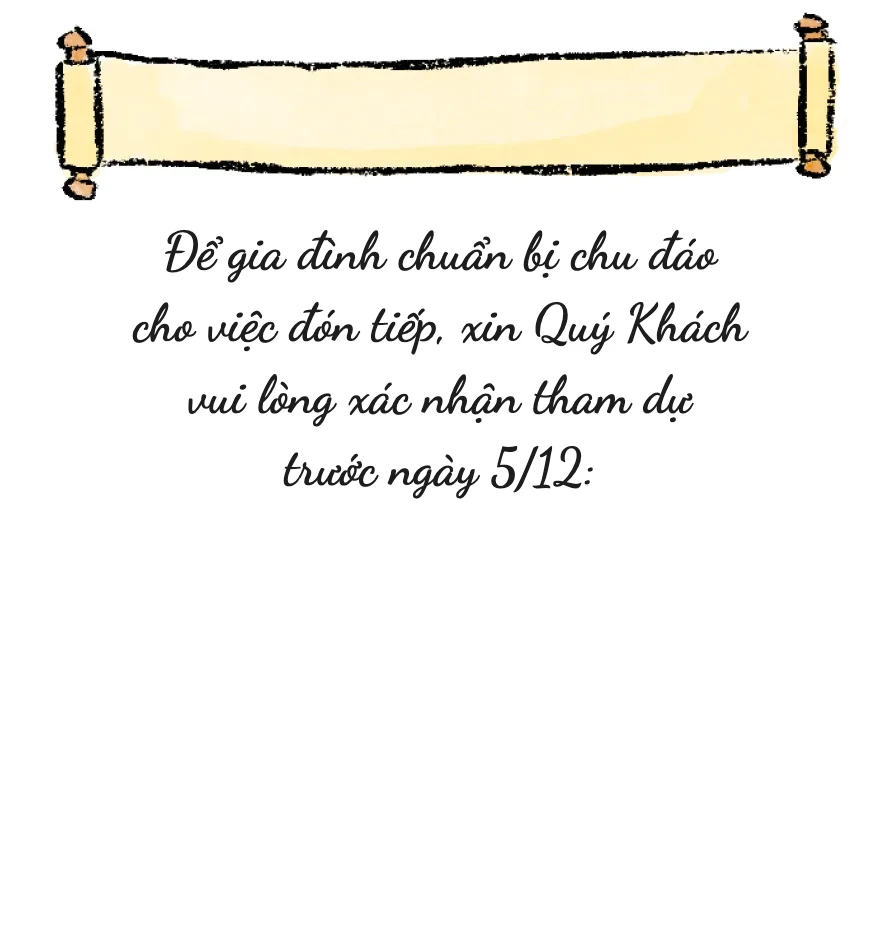
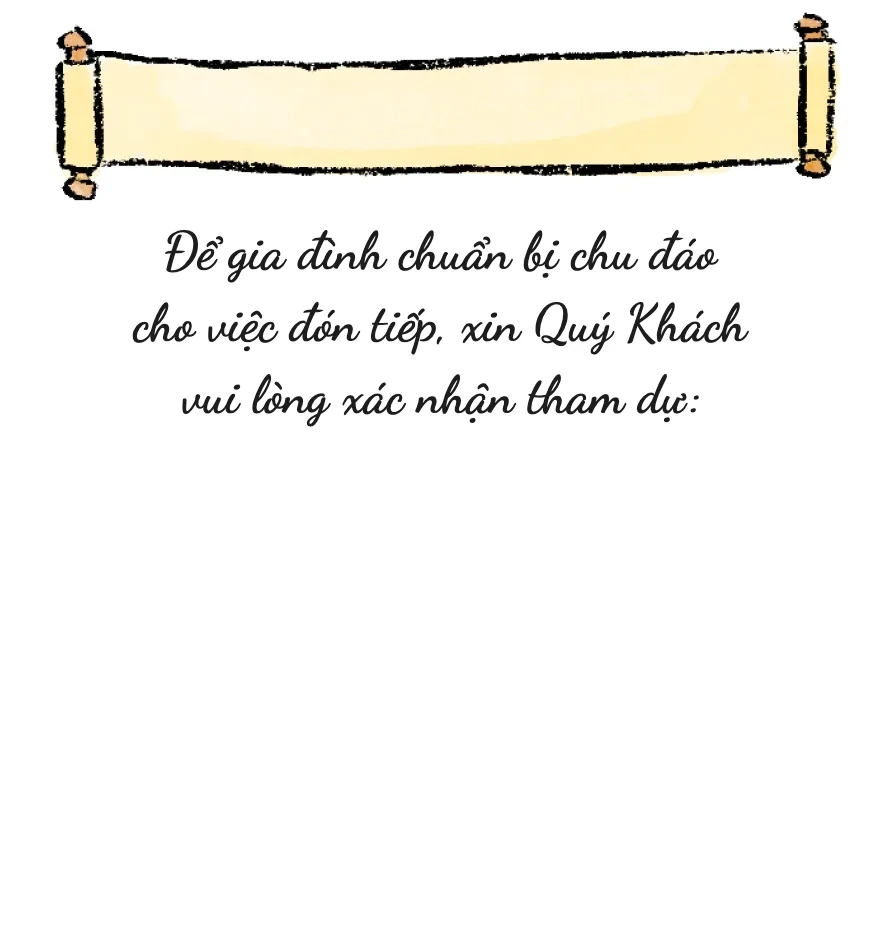
RSVP: remove the 5/12 deadline from the prompt
Drop "trước ngày 5/12" from the RSVP art, the screen-reader copy and the
form title, and bump the image cache-buster.

Claude-Session: https://claude.ai/code/session_01Ff7T74aEhhkavyVSxqs55A

Changed region(s): [[0.2148, 0.3977, 0.7977, 0.52]]

diff --git a/index.html b/index.html
@@ -26,7 +26,7 @@ chung vui</h2><p class="t small-i c pre" style="left:calc(88 * var(--u));top:cal
 kính mời quý khách
 đến chung vui trong lễ thành hôn</p><p class="sr-only">Minh Tran &amp; Mindy Quach</p><p class="t small-bi c" style="left:calc(134 * var(--u));top:calc(2319 * var(--u));width:calc(177 * var(--u));white-space:pre;">Thứ Bảy  |  19 tháng 12, 2026</p><p class="t venue c" style="left:calc(50 * var(--u));top:calc(2367 * var(--u));width:calc(340 * var(--u));white-space:pre;">Thiskyhall Sala Convention Center</p><p class="t small-i c pre" style="left:calc(72 * var(--u));top:calc(2398 * var(--u));width:calc(296 * var(--u));">Cổng đường D6 10 Mai Chí Thọ
 KĐT Sala, An Khánh
-TP. Hồ Chí Minh</p></div></section><section id="rsvp" aria-labelledby="rsvp-h"><div id="rsvp-art" class="art " style="height:calc(392 * var(--u));overflow:hidden"><div class="shift" style="top:calc(-2776 * var(--u))"><img class="bg" src="assets/rsvp.webp?v=6" alt="" aria-hidden="true" width="440" height="474" loading="lazy" decoding="async" style="top:calc(2776 * var(--u));height:calc(474 * var(--u))"><h2 id="rsvp-h" class="t h-script" style="left:calc(179 * var(--u));top:calc(2803 * var(--u));width:calc(89 * var(--u));white-space:pre;">RSVP</h2><p class="sr-only">Để gia đình chuẩn bị chu đáo cho việc đón tiếp, xin Quý Khách vui lòng xác nhận tham dự trước ngày 5/12:</p><img class="sprite sp-wand-left anim-wand-left " src="assets/wand-left.webp" alt="" aria-hidden="true" width="224" height="139" loading="lazy" decoding="async" style="left:calc(-48 * var(--u));top:calc(3016 * var(--u));width:calc(224 * var(--u));height:calc(139 * var(--u));"><img class="sprite sp-wand-right anim-wand-right " src="assets/wand-right.webp" alt="" aria-hidden="true" width="224" height="139" loading="lazy" decoding="async" style="left:calc(262 * var(--u));top:calc(3016 * var(--u));width:calc(224 * var(--u));height:calc(139 * var(--u));"></div></div><div id="rsvp-form-root"></div></section><section id="agenda" class="art " style="height:calc(935 * var(--u));overflow:hidden"><div class="shift" style="top:calc(-3840 * var(--u))"><img class="bg" src="assets/agenda.webp" alt="" aria-hidden="true" width="440" height="1115" loading="lazy" decoding="async" style="top:calc(3660 * var(--u));height:calc(1115 * var(--u))"><img class="sprite" src="assets/star.webp" alt="" aria-hidden="true" width="32" height="31" loading="lazy" decoding="async" style="left:calc(200.1 * var(--u));top:calc(4290 * var(--u));width:calc(32.4 * var(--u));height:calc(31.3 * var(--u));"><img class="sprite" src="assets/star.webp" alt="" aria-hidden="true" width="32" height="31" loading="lazy" decoding="async" style="left:calc(200.1 * var(--u));top:calc(4515 * var(--u));width:calc(32.4 * var(--u));height:calc(31.3 * var(--u));"><h2 class="t h-script c pre" style="left:calc(42 * var(--u));top:calc(3916 * var(--u));width:calc(356 * var(--u));">Chương Trình</h2><h3 class="t loc c pre" style="left:calc(117 * var(--u));top:calc(4037 * var(--u));width:calc(204 * var(--u));white-space:pre;"><span class="loc-b">Tiệc cưới
+TP. Hồ Chí Minh</p></div></section><section id="rsvp" aria-labelledby="rsvp-h"><div id="rsvp-art" class="art " style="height:calc(392 * var(--u));overflow:hidden"><div class="shift" style="top:calc(-2776 * var(--u))"><img class="bg" src="assets/rsvp.webp?v=7" alt="" aria-hidden="true" width="440" height="474" loading="lazy" decoding="async" style="top:calc(2776 * var(--u));height:calc(474 * var(--u))"><h2 id="rsvp-h" class="t h-script" style="left:calc(179 * var(--u));top:calc(2803 * var(--u));width:calc(89 * var(--u));white-space:pre;">RSVP</h2><p class="sr-only">Để gia đình chuẩn bị chu đáo cho việc đón tiếp, xin Quý Khách vui lòng xác nhận tham dự:</p><img class="sprite sp-wand-left anim-wand-left " src="assets/wand-left.webp" alt="" aria-hidden="true" width="224" height="139" loading="lazy" decoding="async" style="left:calc(-48 * var(--u));top:calc(3016 * var(--u));width:calc(224 * var(--u));height:calc(139 * var(--u));"><img class="sprite sp-wand-right anim-wand-right " src="assets/wand-right.webp" alt="" aria-hidden="true" width="224" height="139" loading="lazy" decoding="async" style="left:calc(262 * var(--u));top:calc(3016 * var(--u));width:calc(224 * var(--u));height:calc(139 * var(--u));"></div></div><div id="rsvp-form-root"></div></section><section id="agenda" class="art " style="height:calc(935 * var(--u));overflow:hidden"><div class="shift" style="top:calc(-3840 * var(--u))"><img class="bg" src="assets/agenda.webp" alt="" aria-hidden="true" width="440" height="1115" loading="lazy" decoding="async" style="top:calc(3660 * var(--u));height:calc(1115 * var(--u))"><img class="sprite" src="assets/star.webp" alt="" aria-hidden="true" width="32" height="31" loading="lazy" decoding="async" style="left:calc(200.1 * var(--u));top:calc(4290 * var(--u));width:calc(32.4 * var(--u));height:calc(31.3 * var(--u));"><img class="sprite" src="assets/star.webp" alt="" aria-hidden="true" width="32" height="31" loading="lazy" decoding="async" style="left:calc(200.1 * var(--u));top:calc(4515 * var(--u));width:calc(32.4 * var(--u));height:calc(31.3 * var(--u));"><h2 class="t h-script c pre" style="left:calc(42 * var(--u));top:calc(3916 * var(--u));width:calc(356 * var(--u));">Chương Trình</h2><h3 class="t loc c pre" style="left:calc(117 * var(--u));top:calc(4037 * var(--u));width:calc(204 * var(--u));white-space:pre;"><span class="loc-b">Tiệc cưới
 </span><span class="loc-i">Sảnh Skylar 1, 2 (tầng 5)</span></h3><p class="t item c pre" style="left:calc(145 * var(--u));top:calc(4165 * var(--u));width:calc(124 * var(--u));white-space:pre;"><span class="time">17:30
 </span><span class="title">Đón khách</span></p><p class="t item c pre" style="left:calc(103 * var(--u));top:calc(4375 * var(--u));width:calc(229 * var(--u));white-space:pre;"><span class="time">18:30
 </span><span class="title">Khai tiệc</span></p></div></section><section id="location" class="art " style="height:calc(1420 * var(--u))"><div class="shift" style="top:calc(-5837 * var(--u))"><img class="bg" src="assets/location.webp" alt="" aria-hidden="true" width="440" height="670" loading="lazy" decoding="async" style="top:calc(5837 * var(--u));height:calc(670 * var(--u))"><h2 class="t h-script c" style="left:calc(42 * var(--u));top:calc(6283 * var(--u));width:calc(356 * var(--u));white-space:pre;">Địa điểm</h2><p class="t venue-l c" style="left:calc(20 * var(--u));top:calc(6365 * var(--u));width:calc(400 * var(--u));white-space:pre;">Thiskyhall Sala Convention Center</p><p class="t body c pre" style="left:calc(40 * var(--u));top:calc(6405 * var(--u));width:calc(360 * var(--u));">Cổng đường D6 10 Mai Chí Thọ

diff --git a/rsvp.js b/rsvp.js
@@ -50,7 +50,7 @@
   }
 
   // ---------- build DOM ----------
-  var title = h('h2', { class: 'rsvp-title', id: 'rsvp-title', text: 'Để gia đình chuẩn bị chu đáo cho việc đón tiếp, xin Quý Khách vui lòng xác nhận tham dự trước ngày 5/12:' });
+  var title = h('h2', { class: 'rsvp-title', id: 'rsvp-title', text: 'Để gia đình chuẩn bị chu đáo cho việc đón tiếp, xin Quý Khách vui lòng xác nhận tham dự:' });
   var btnYes = h('button', { type: 'button', class: 'rsvp-pill', 'aria-pressed': 'false', text: 'CÓ' });
   var btnNo = h('button', { type: 'button', class: 'rsvp-pill', 'aria-pressed': 'false', text: 'KHÔNG' });
   var choice = h('div', { class: 'rsvp-choice', role: 'group', 'aria-labelledby': 'rsvp-title' }, [btnYes, btnNo]);
